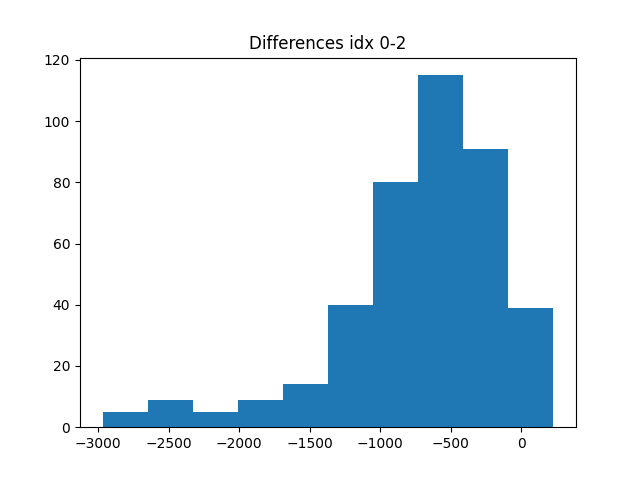
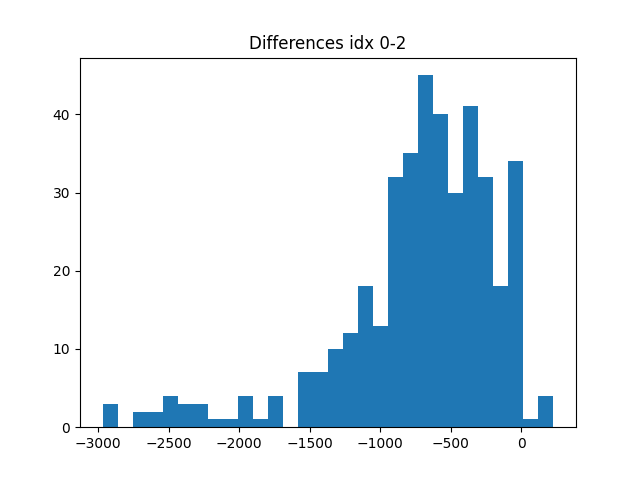
[ENH] Added new plots. Raised histogram number of bins.

diff --git a/analysis-v2/man_steady_indices/compare_man_steady_indices.py b/analysis-v2/man_steady_indices/compare_man_steady_indices.py
@@ -3,10 +3,12 @@
 """The script to compare manual detection of steady states indices."""
 
 import json
+import numpy as np
 import simpleJDB
 import matplotlib.pyplot as plt
 import itertools
-
+import sklearn.cluster
+from scipy.stats import median_abs_deviation
 
 # Load the data
 data_vittorio = simpleJDB.database('benchmark_database_steady_indices_vittorio')
@@ -46,33 +48,93 @@ data_idxs = list(itertools.combinations(range(5), 2))
 
 # Create histograms
 diffs = {f'{e[0]}-{e[1]}': [] for e in data_idxs}
+extreme_diffs = []
+diff_stds = []
+diff_mads = []
+diff_max = []
+no_cluster_dbscan_eps100 = 0
+no_cluster_dbscan_eps50 = 0
+no_cluster_dbscan_eps30 = 0
+no_cluster_dbscan_eps20 = 0
+
+dbscan_eps100 = sklearn.cluster.DBSCAN(eps=100, min_samples=3)
+dbscan_eps50 = sklearn.cluster.DBSCAN(eps=50, min_samples=3)
+dbscan_eps30 = sklearn.cluster.DBSCAN(eps=30, min_samples=3)
+dbscan_eps20 = sklearn.cluster.DBSCAN(eps=20, min_samples=3)
 
 for k, e in data_sum.items():
     for idx_pair in data_idxs:
         diffs[f'{idx_pair[0]}-{idx_pair[1]}'].append(e['idxs'][idx_pair[0]] - e['idxs'][idx_pair[1]])
 
+    extreme_diffs.append(max(e['idxs']) - min(e['idxs']))
+    diff_stds.append(np.std(e['idxs']))
+    diff_mads.append(median_abs_deviation(e['idxs']))
+    diff_max.append(max(e['idxs']))
+
+    # Check, if there are any indices clustered
+    no_cluster_dbscan_eps100 += (dbscan_eps100.fit(np.array(e['idxs']).reshape(-1, 1)).labels_ > -1).any()
+    no_cluster_dbscan_eps50 += (dbscan_eps50.fit(np.array(e['idxs']).reshape(-1, 1)).labels_ > -1).any()
+    no_cluster_dbscan_eps30 += (dbscan_eps30.fit(np.array(e['idxs']).reshape(-1, 1)).labels_ > -1).any()
+    no_cluster_dbscan_eps20 += (dbscan_eps20.fit(np.array(e['idxs']).reshape(-1, 1)).labels_ > -1).any()
+
+
 for k, e in diffs.items():
     plt.figure()
     plt.title(f'Differences idx {k}')
-    plt.hist(e)
+    plt.hist(e, bins=30)
     plt.savefig(f'histograms/diffs_{k}.png')
     plt.close()
 
 plt.figure()
-plt.hist(diffs.values(), label=diffs.keys())
+plt.hist(diffs.values(), label=diffs.keys(), bins=15)
 plt.title('SSD Differences')
 plt.legend()
 plt.savefig('histograms/all_diffs.png')
 plt.close()
 
 plt.figure()
-plt.hist(diffs.values(), label=diffs.keys(), cumulative=True)
+plt.hist(diffs.values(), label=diffs.keys(), cumulative=True, bins=15)
 plt.title('SSD Cumulative differences')
 plt.legend()
 plt.savefig('histograms/all_diffs_cumulative.png')
 plt.close()
 
-# Create boxplots of differences' variance
-plt.boxplot(diffs.values(), tick_labels=diffs.keys())
-plt.savefig('boxplots/boxplot_all_diffs.png')
+
+plt.figure()
+plt.hist(extreme_diffs, bins=30)
+plt.title('Rightmost - leftmost idxs differences')
+plt.savefig('histograms/extreme_idx_diffs.png')
 plt.close()
+
+plt.figure()
+plt.hist(diff_stds, bins=30)
+plt.title('SSD indexing standard deviations')
+plt.savefig('histograms/idx_stds.png')
+plt.close()
+
+plt.figure()
+plt.hist(diff_mads, bins=30)
+plt.title('Median absolute deviations')
+plt.savefig('histograms/idx_mads.png')
+plt.close()
+
+plt.figure()
+plt.hist(diff_max, bins=30)
+plt.title('Rightmost indices')
+plt.savefig('histograms/idx_max.png')
+plt.close()
+
+# Create bar plots for numbers of clustered indices via DBSCAN
+plt.figure()
+plt.bar(range(1, 5),
+        [no_cluster_dbscan_eps20, no_cluster_dbscan_eps30, no_cluster_dbscan_eps50, no_cluster_dbscan_eps100])
+plt.title('Number of series with clustered indices via DBSCAN')
+plt.xticks(range(1, 5), ['20', '30', '50', '100'])
+plt.xlabel('DBSCAN eps')
+plt.savefig('barplots/no_series_with_clusters.png')
+plt.close()
+
+# # Create boxplots of differences' variance
+# plt.boxplot(diffs.values(), tick_labels=diffs.keys())
+# plt.savefig('boxplots/boxplot_all_diffs.png')
+# plt.close()
